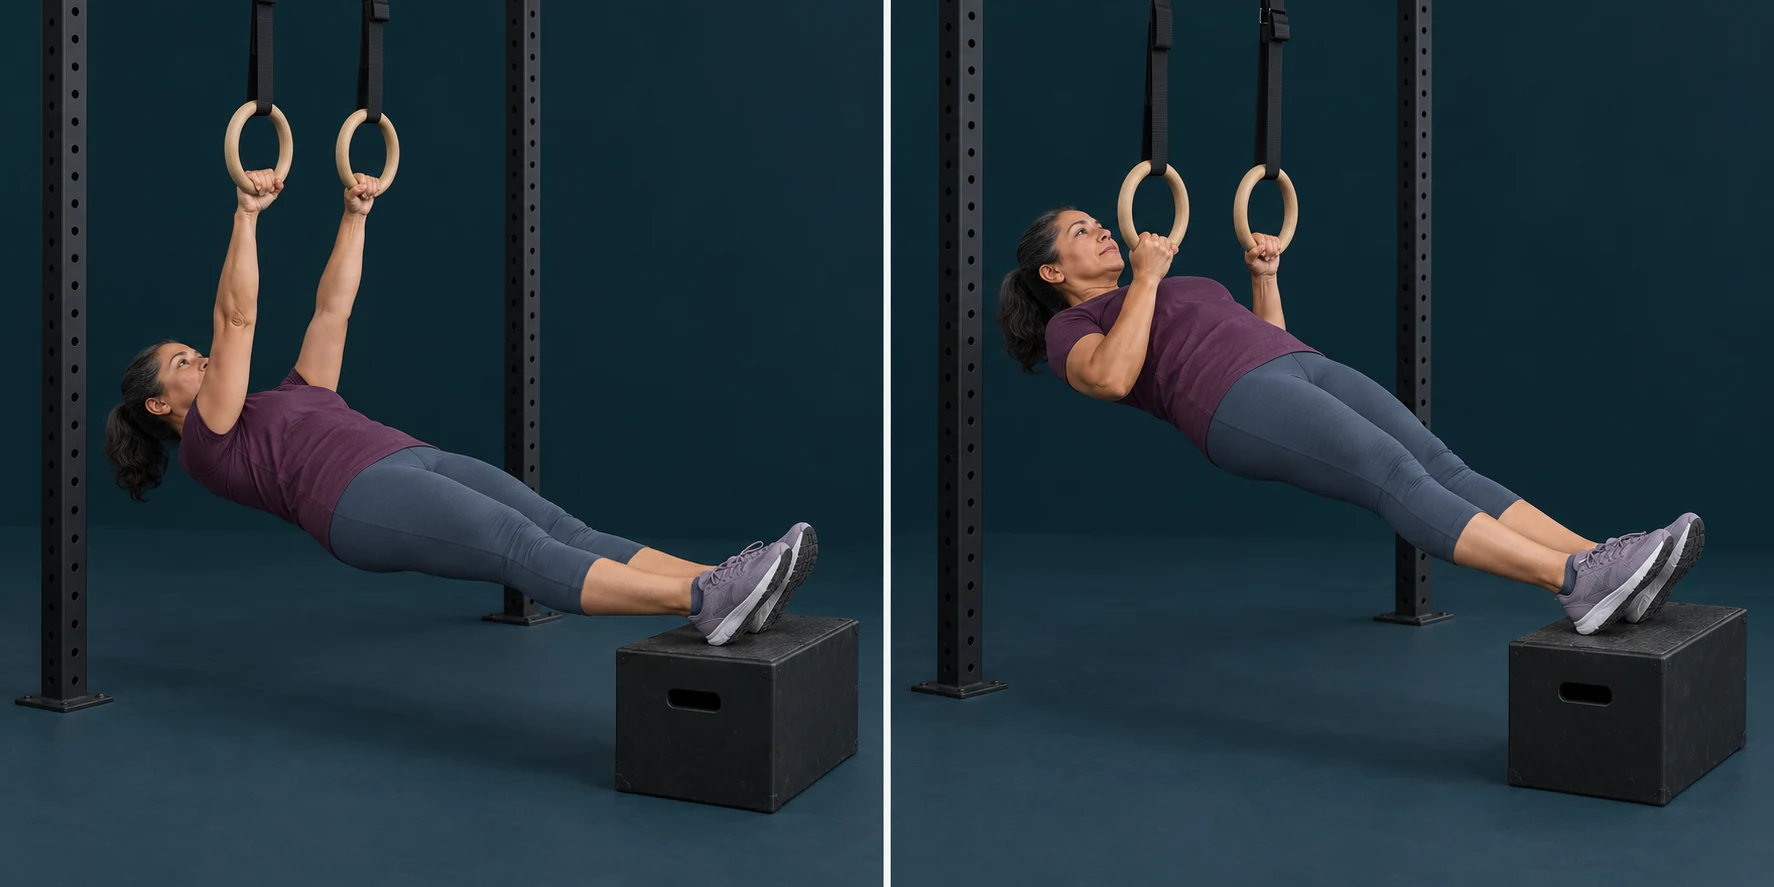
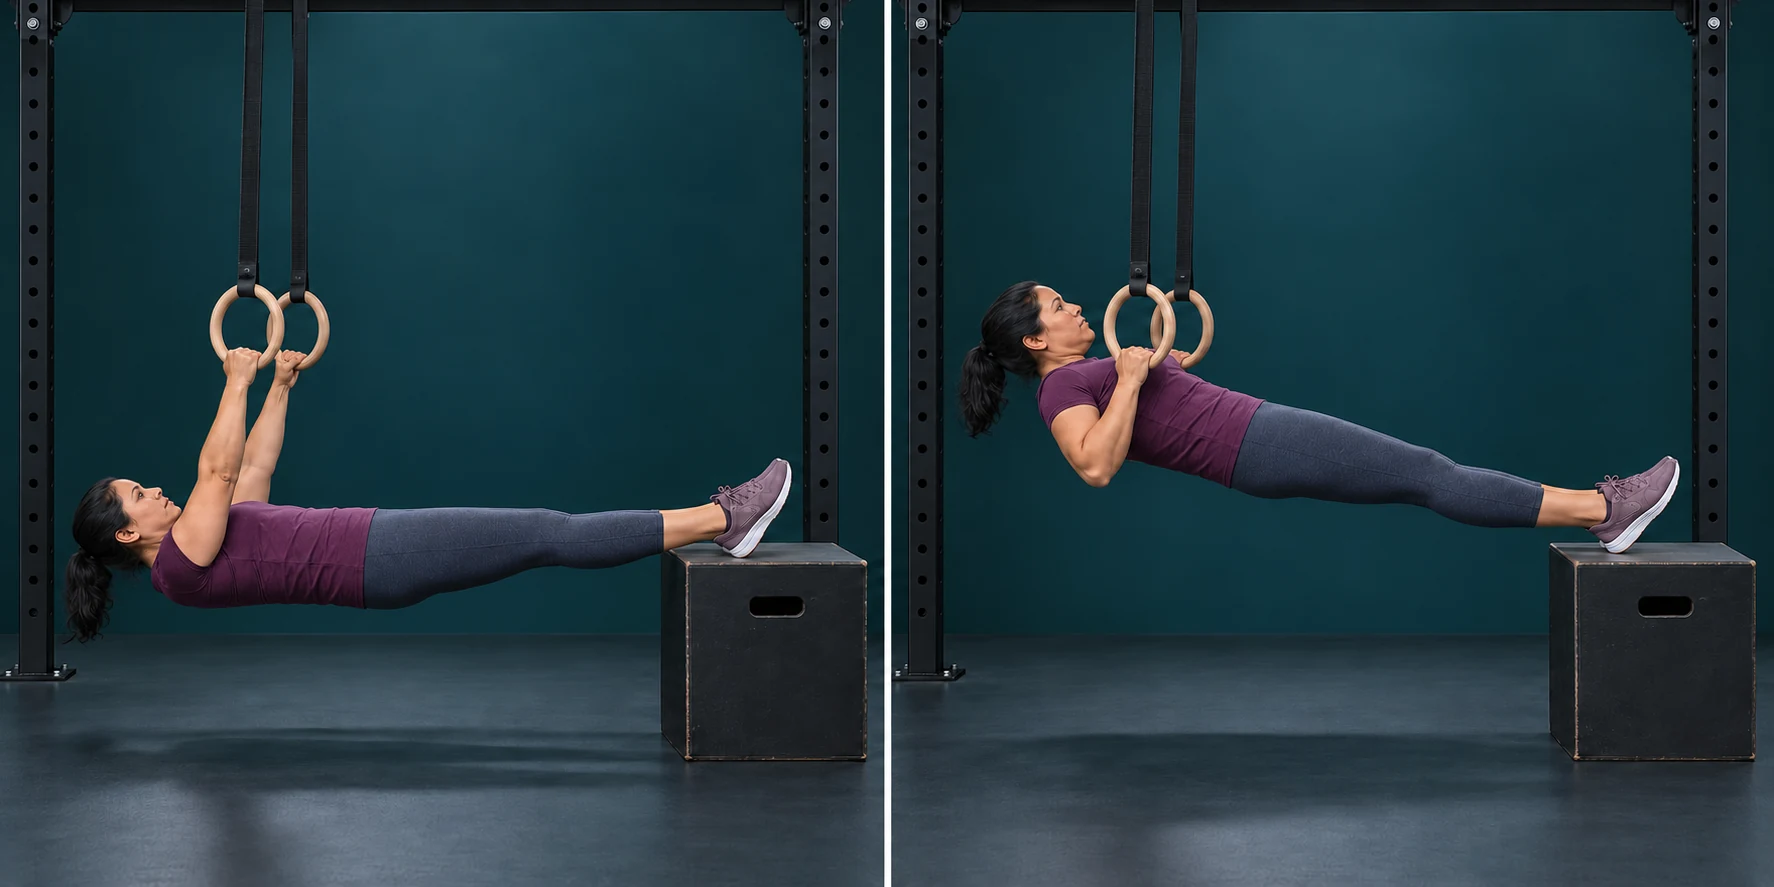
1. Improve exercise mechanics, support contacts and artwork review rules

diff --git a/sw.js b/sw.js
@@ -1,4 +1,4 @@
-const CACHE='form-shell-0.20.0-security1-art13';
+const CACHE='form-shell-0.20.0-security1-art14';
 const FILES=["./", "index.html", "manifest.webmanifest", "assets/icon-192.png", "assets/icon-512.png", "assets/exercise-guides.css", "assets/offline.js", "assets/training-ui.js", "assets/calendar.js", "assets/calendar-ui.js", "assets/training-tools.js", "assets/exercise-preferences.js", "assets/progression-rules.js", "assets/period-plans.js", "assets/period-ui.js", "assets/session-changes.js", "assets/program.js", "assets/program-editor.js", "assets/vendor-fflate.js", "assets/vendor-sax.js", "assets/health-import.js", "assets/health-history.js", "assets/workout-ocr.js", "assets/workout-import.js", "assets/activities.js", "assets/coaching.js", "assets/data-store.js", "assets/profile-vault.js", "assets/exercise-guides.js", "assets/exercise-art.js", "assets/exercise-images/burpee-cast-v1.webp", "assets/exercise-images/pushup-cast-v1.webp", "assets/exercise-images/lunge-cast-v1.webp", "assets/exercise-images/neutral-push-cast-v1.webp", "assets/exercise-images/thruster-cast-v1.webp", "assets/exercise-images/deadbug-cast-v1.webp", "assets/exercise-images/side-plank-cast-v1.webp", "assets/exercise-images/sit-up-cast-v1.webp", "assets/exercise-images/ring-row-cast-v1.webp", "assets/exercise-images/bench-cast-v1.webp", "assets/exercise-images/leg-raise-cast-v1.webp", "assets/exercise-images/tricep-extension-cast-v1.webp", "assets/exercise-images/box-jumps-cast-v1.webp", "assets/exercise-images/push-press-cast-v1.webp", "assets/exercise-images/back-squat-cast-v1.webp", "assets/exercise-images/single-leg-squat-isometric-v2.webp",  "assets/exercise-videos.js"];
 // A new shell must fetch fresh assets, even when the HTTP cache still considers them fresh.
 self.addEventListener('install',event=>event.waitUntil(caches.open(CACHE).then(cache=>cache.addAll(FILES.map(file=>new Request(file,{cache:'reload'}))))));

diff --git a/docs/exercise-mechanics-review-2026-10-18.md b/docs/exercise-mechanics-review-2026-10-18.md
@@ -1,0 +1,61 @@
+# Exercise mechanics and load-position review
+
+Reviewed 18 October 2026. This supersedes earlier artwork sign-off for the nine revised assets below. Scope: visual review of both frames of all 16 built-in exercises, incorporating the second review supplied by the user. No exercise IDs, prescriptions, variants, storage keys or workout records were changed.
+
+## Findings and changes
+
+| Exercise | Result of this pass | Limit or remaining issue |
+|---|---|---|
+| Bench press | Rebuilt from the foot end so bar clearly crosses the body; supported head, planted feet, collars, improved overhead margins. | This frontal view cannot establish exact sagittal bar path or chest clearance. Not a measured joint-angle pass. |
+| Overhead tricep extension | Upper arms raised, dumbbell vertical behind head in lowered phase; extension rather than behind-neck press is clearer. | Small camera/upper-arm differences remain. Exact prescribed equipment/setup still needs its source. |
+| Side plank | Rebuilt held position with raised pelvis, fitted clothing and less upright neck. Elbow and stacked-foot contacts retained. | Joint centres are visual estimates, not a measured ear-to-ankle straightness certification. |
+| Back squat | Added collars and widened standing stance towards the lowered stance. | Small residual foot-position drift remains; exact identical stance criterion is not passed. Unlabelled plate diameter does not identify kilograms. |
+| Reverse lunge | Shorts expose knees; both hands on hips remove apparent thigh support. | No claim of measured 5% head-size tolerance. Both frames retain front-foot and rear-forefoot support. |
+| Dumbbell thruster | Clearer overhead stack and increased top clearance. | Small viewpoint/stance differences remain. Exact fixed-foot and 10% margin criteria are not signed off. |
+| Deadbug | Higher viewpoint exposes the near bent thigh overlapping the far extended leg, opposite the near extended arm. Head supported. | Two frames do not show a complete alternating sequence. |
+| Decline ring row | Rebuilt fixed-height rings/straps, lower start and chest-to-ring finish; further raised pelvis to reduce sag. | Apparatus top extends beyond frame. Perspective and joint-centre accuracy remain approximate. |
+| Burpee | Reduced forward neck extension in floor phase; zoomed out to protect raised hands in jump phase. | Two endpoints omit transitional phases; exact prescribed components remain unknown. |
+| Barbell single-leg squat | Retained current supported pose, front foot grounded, rear foot on bench and head facing front leg. | Rear-foot-elevated variant is already confirmed. Pictured plate count is illustrative, not a prescription or a weight inferred from appearance. |
+| Barbell push press | Reviewed dip, rack, grip and overhead phase; retained current image. | Grip-width continuity could be clearer. No single universal elbow angle asserted. |
+| Neutral-grip DB push press | Reviewed neutral grips, dip and overhead support; retained. | Rack contact could be clearer; no prescribed load inferred. |
+| Box jumps | Both shoes supported on box at landing; retained. | A more central landing would communicate the target better. Box height/return method need source. |
+| Hanging straight-leg raise | No clear new grip, support or limb-position defect found; retained. | Prescribed range and grip remain source-specific. |
+| Push-up | Grounded hands/toes and plausible trunk alignment; retained. | Slight hip elevation in lowered phase remains a visual limitation. |
+| Bent-leg sit-up | Retained; existing top frame depicts a partial curl. | Full sit-up versus restricted curl range cannot be settled without the prescription. Do not silently prescribe a deeper range. |
+
+This is a completed review with improvements, **not an all-green anatomical QA gate**. Residual stance/viewpoint issues above remain open. No numerical head-size, centre-of-mass, joint-angle or load measurement was certified. Generated candidates that worsened mechanics, changed aspect ratio or cropped the body were rejected. Exact final prompts and master hashes accompany all nine accepted replacements; older provenance is retained.
+
+## Reconciliation with the supplied review
+
+- It correctly identified important bench-axis, triceps, neck, clothing and continuity problems. It overlooked changing ring heights and the burpee neck, which were also corrected.
+- There are 15 cast-v1 images plus one single-leg-squat-v2 image, 16 built-in guides total.
+- The bench-supported single-leg variant was already confirmed; do not ask again. The bench prompt was already recovered before this pass.
+- `EXERCISE_IMAGE_SPEC.md` is still absent. The pasted review is not that missing document. No invented replacement has been presented as the user's original specification. The existing design guide remains the available authority, with additional review rules below.
+- Exact plate mass cannot be derived from its diameter or appearance. Do not select new prescription weights from an illustration or from perceived age, ethnicity, sex or body size. Artwork loads remain illustrative and stored values remain unchanged.
+- Tight source margins are a risk, but reported clipping must be checked in the actual app. Pixel bounds and successful decoding do not establish anatomical correctness.
+
+## Reference checks
+
+General mechanics were compared with these provider references; they do not establish personal physiotherapy instructions or certify the drawings. This pass did not verify playback of every demonstration video.
+
+- [CrossFit back squat](https://www.crossfit.com/essentials/the-back-squat) and [push press](https://www.crossfit.com/essentials/the-push-press): supported bar positions and movement phases.
+- [CrossFit ring row](https://www.crossfit.com/essentials/the-ring-row): movement reference.
+- [Catalyst Athletics overhead dumbbell tricep extension](https://www.catalystathletics.com/exercise/828/Dumbbell-Overhead-Tricep-Extension/): elbows held high during extension rather than driven forwards.
+- [Peak Physio full side plank](https://www.peak-physio.com.au/exercise/side-plank-full/): elbow support and stacked body position.
+- [NASM deadbug](https://www.nasm.org/resource-center/exercise-library/dead-bug): opposite arm/leg pattern.
+- [ACE push-up](https://www.acefitness.org/resources/everyone/exercise-library/41/push-up/): hand/foot support and head/spine alignment.
+- [Human Kinetics rear-foot-elevated split squat](https://us.humankinetics.com/blogs/excerpt/building-strength-for-soccer-with-the-rear-foot-elevated-split-squat): support and front-leg loading.
+
+## Verification and release
+
[1 lines of base64/hex data omitted]
+
+All 16 guides were opened, decoded and captured in desktop Chrome, iPhone 13 WebKit and iPhone SE WebKit with no page errors. Changed artwork was visually inspected in source images and actual app screenshots, including mobile bench/overhead margins. Captures are ignored `test-results/position-*.png`. The user's existing local preview tab was updated through `update.html` and its new bench image visually confirmed. No user workout entry or restore was performed.
+
+Physical-device and live deployment remain separate gates. Original specification/source gaps and the residual visual issues above remain open regardless of browser test results. No video playback re-certification is claimed. At handoff all 21 files in this task are uncommitted, with no existing commit ahead of the tracked upstream. The 0.20.0 security/art13 fingerprint in earlier documents is historical, not the fingerprint for these replacements.
+
+Commit scope: the `.webp` and `.json` pairs in `assets/exercise-images/` for `back-squat-cast-v1`, `bench-cast-v1`, `burpee-cast-v1`, `deadbug-cast-v1`, `lunge-cast-v1`, `ring-row-cast-v1`, `side-plank-cast-v1`, `thruster-cast-v1`, `tricep-extension-cast-v1`; `sw.js`; `docs/exercise-art-style-guide.md`; this document. No generated masters, private context, workout backups or test screenshots belong in the commit.
+
+Suggested Summary: `Improve exercise mechanics, support contacts and artwork review rules`
+
+Review locally at http://127.0.0.1:8765/ in Exercises. If an older installation is open, save any unfinished entry first, then use http://127.0.0.1:8765/update.html → Apply update and open FORM. Never clear website data. No workout-data restoration or repeated import is needed. Follow the consolidated release handover before merge/push; this review does not establish live deployment.

diff --git a/docs/exercise-art-style-guide.md b/docs/exercise-art-style-guide.md
@@ -153,3 +153,16 @@ Reference checks for front-foot loading and neutral head position: [Human Kineti
 6. State what was visually reviewed, what automated tests passed, and whether physical-device and live verification remain pending. Give exact commit files and a ready-to-copy Summary, following the project handover rules.
 
 No pose change may rewrite exercise IDs, stored workout records, prescriptions, historical snapshots or completion flags. Source files under `sources/` remain read-only.
+
+## Mechanics review additions — 18 October 2026
+
+Read `docs/exercise-mechanics-review-2026-10-18.md` before the next pose revision; it records remaining defects, not just accepted improvements.
+
+- Compare both frames as one movement: fixed camera, stable model proportions, identical equipment dimensions, unchanged grip and planted feet unless the movement requires a step. Rings and strap lengths must not change to accommodate the pose.
+- Trace bar axis across the body, not only the hands. Bench images must make cross-body orientation and supported head obvious; use another camera if foreshortening obscures the bar path.
+- Check neck together with trunk; a rotated face alone does not fix cervical alignment. Use estimated shoulder/hip/ankle centres to inspect trunk alignment rather than clothing edges or body shape.
+- Prefer visible knees or fitted clothing. Ensure hands clearly grip, support or remain free; avoid accidental thigh contact in an unsupported lunge.
+- For deadbugs, expose near/far limb origins so opposite-arm/opposite-leg pairing is readable. Keep head supported.
+- Aim for 8–10% margins around moving hands and loads and matching head scale within 5%. Measure before claiming those numerical gates passed. A successful prompt is not proof the image obeyed it.
+- Do not infer kilograms from plate diameter, or capacity from a model's appearance. Never alter a prescription to match artwork. Do not label unverified weights in a sidecar as prescribed.
+- Retain exact final edit prompts, reference generation identifiers and master hashes. Keep rejected candidates out of application assets. Report residual issues and missing source/specification separately from automated rendering tests.
